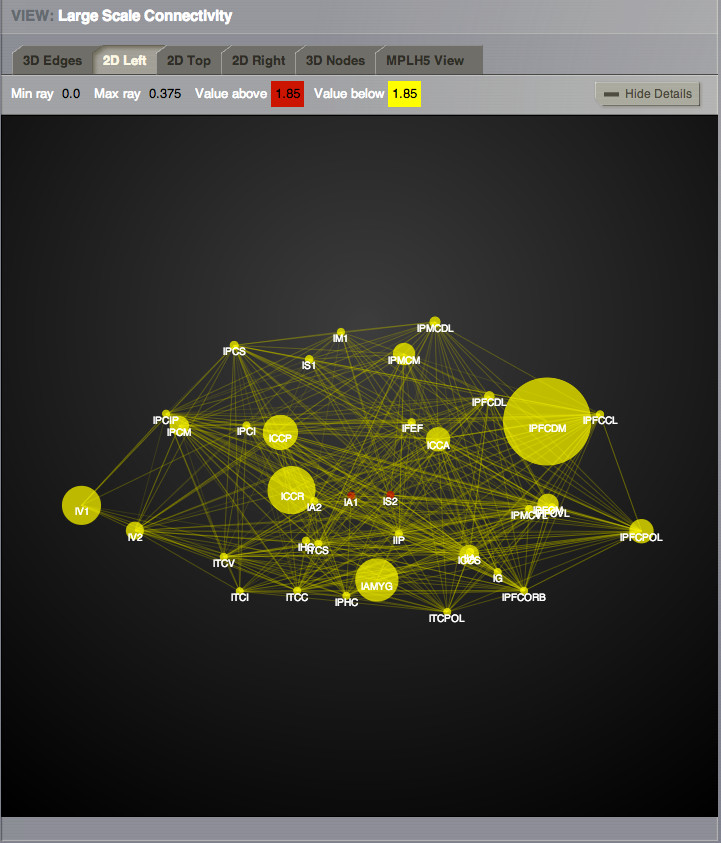
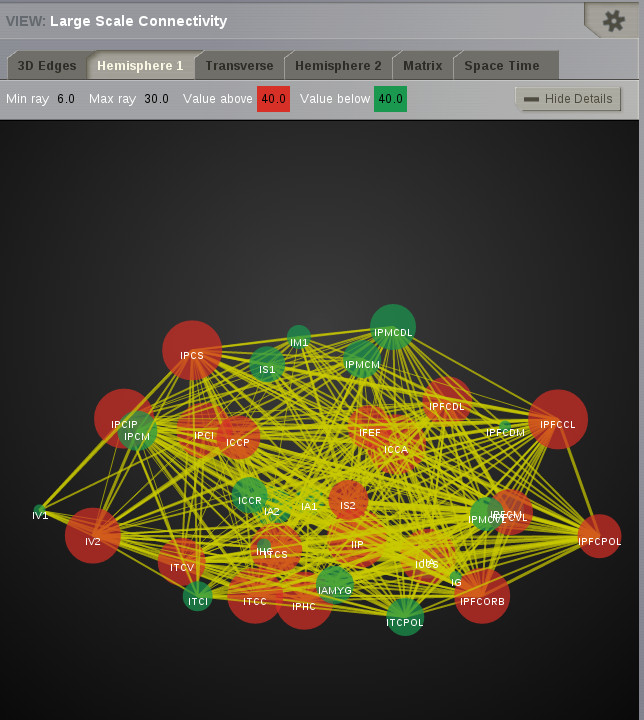
TVB-1577 updated user guide for large scale connectivity viewers. In 2d views changed color of nodes under threshold to green.
git-svn-id: https://repo.thevirtualbrain.org/svn/tvb/trunk@6566 1c0e02f0-7929-43c0-8fb3-3293bf43b0d1

diff --git a/framework_tvb/tvb/adapters/visualizers/connectivity.py b/framework_tvb/tvb/adapters/visualizers/connectivity.py
@@ -293,8 +293,8 @@ class Connectivity2DViewer(object):
     the viewer will build the required parameter dictionary that will be 
     sent to the HTML/JS 2D representation of the connectivity matrix.
     """
-    DEFAULT_COLOR = '#cc0000'
-    OTHER_COLOR = '#ffff00'
+    DEFAULT_COLOR = '#d73027'
+    OTHER_COLOR = '#1a9850'
     MIN_RAY = 4
     MAX_RAY = 40
     MIN_WEIGHT_VALUE = 0.0

diff --git a/tvb_documentation/manuals/UserGuide/UserGuide-UI_Connectivity.rst b/tvb_documentation/manuals/UserGuide/UserGuide-UI_Connectivity.rst
@@ -329,33 +329,57 @@ There are three main views (projections):
 
 |
 
-The node size can be defined using a ConnectivityMeasure datatype 
-(e.g. the output of a BCT Analyzer). Additionally, a threshold can be set for
-the node color. The nodes with values above the threshold will be red and those
-whose value are below the threshold will be yellow.
+Nodes are drawn as circles and the connections as lines.
+Only the selected nodes are shown.
 
-To display the changes, click on the `Show details` button.
+
+Visualizing Connectivity Measures
+~~~~~~~~~~~~~~~~~~~~~~~~~~~~~~~~~
+
+The 3D and 2D Views can be used to visualize two ConnectivityMeasure datatypes.
+These measures can be the output of a BCT Analyzer.
+If given, they will determine the size and colors of the nodes in the views.
+
+
+You can choose these connectivity measures before launching the Large Scale Connectivity visualizer, or from the brain menu (see tip below).
+
+
+To display the measures in the 3D view check the `Metrics details` checkbox.
+Nodes will be displayed as colored spheres. The size of the sphere is proportional to the measure labeled `Shapes Dimensions`.
+The color comes from the current color scheme and is determined by the measure labeled `Node Colors`.
+
+.. figure:: screenshots/connectivity3d_metrics.jpg
+   :width: 50%
+   :align: center
+
+   3D view of a connectivity measure. Node size is defined
+   by the Indegree. Node color is defined by node strength.
+
+
+To display the measures in the 2D views click the `Show all` button.
+
+Nodes are draws as circles, their size proportional to the measure labeled `Shapes Dimensions`.
+Their color is determined by a threshold and the measure labeled `Node Colors`.
+Nodes with values above the threshold will be red and those whose value are below the threshold will be green.
 
 .. figure:: screenshots/connectivity2d_left_metrics.jpg
    :width: 50%
    :align: center
    
    Preview of 2D Connectivity Viewer (left lateral view). Node size is defined
-   by the Participation Coefficient. Color threshold is 1.8; this values is based 
-   on the the Clustering Coefficient (BU) of the default Connectivity matrix.
-
+   by the Indegree. Node color is defined by node strength, threshold is 40.
 
 
 .. tip::
 
     If you wish to change: 
 
-                            - the color threshold,
-                            - the metrics used to define the node features,
-                            - the colormap used in the Connectivity Matrix Editor, or
-                            - the Connectivity entity
+        - the color threshold,
+        - the metrics used to define the node features,
+        - the colormap used in the Connectivity Matrix Editor, or
+        - the Connectivity entity
 
-   go to the `brain` menu on the top right corner
+    go to the `brain` menu on the top right corner
    
    .. figure:: screenshots/connectivity_context_menu.jpg
       :width: 50%
@@ -367,7 +391,7 @@ To display the changes, click on the `Show details` button.
 |
 
 Matrix Overview
-~~~~~~~~~~~~~~~~
+~~~~~~~~~~~~~~~
 
 A 2D matrix plot to have a complete overview of the initially selected weighted
 connectivity matrix.
@@ -383,7 +407,7 @@ connectivity matrix.
 |
 
 Space-Time
-~~~~~~~~~~~
+~~~~~~~~~~
 
 This is a three-dimensional representation of the delayed-connectivity
 structure (space-time) when combined with spatial separation and a finite
